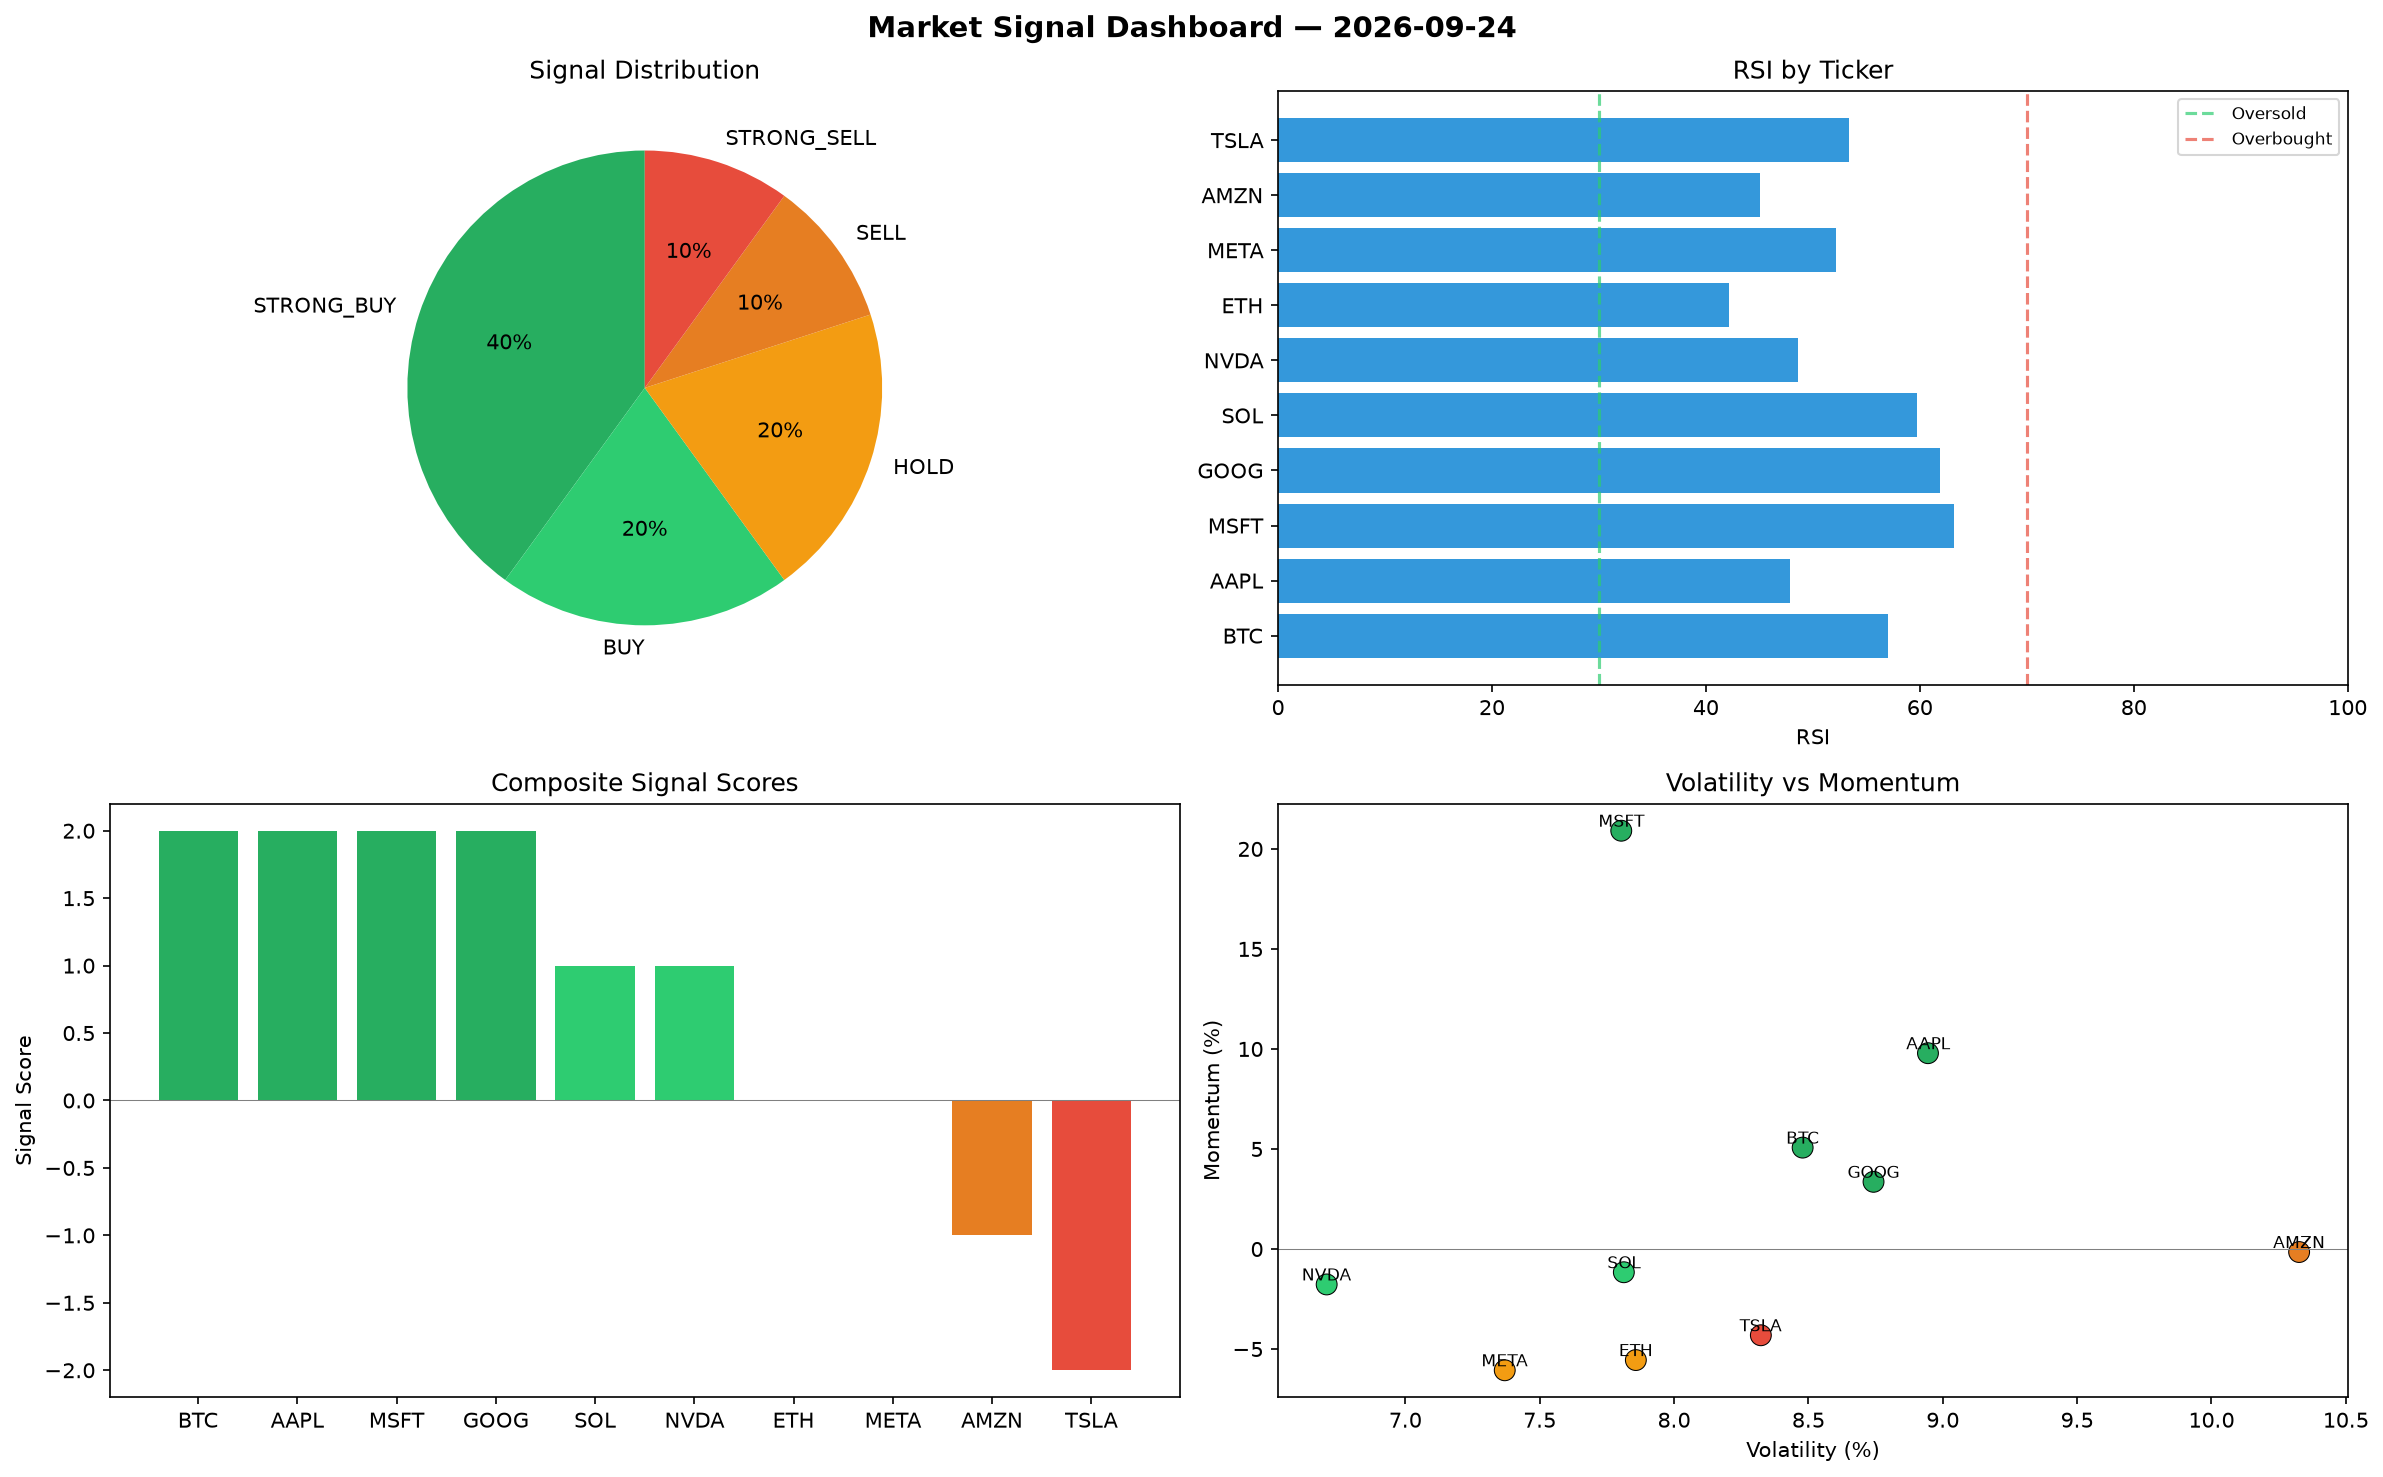
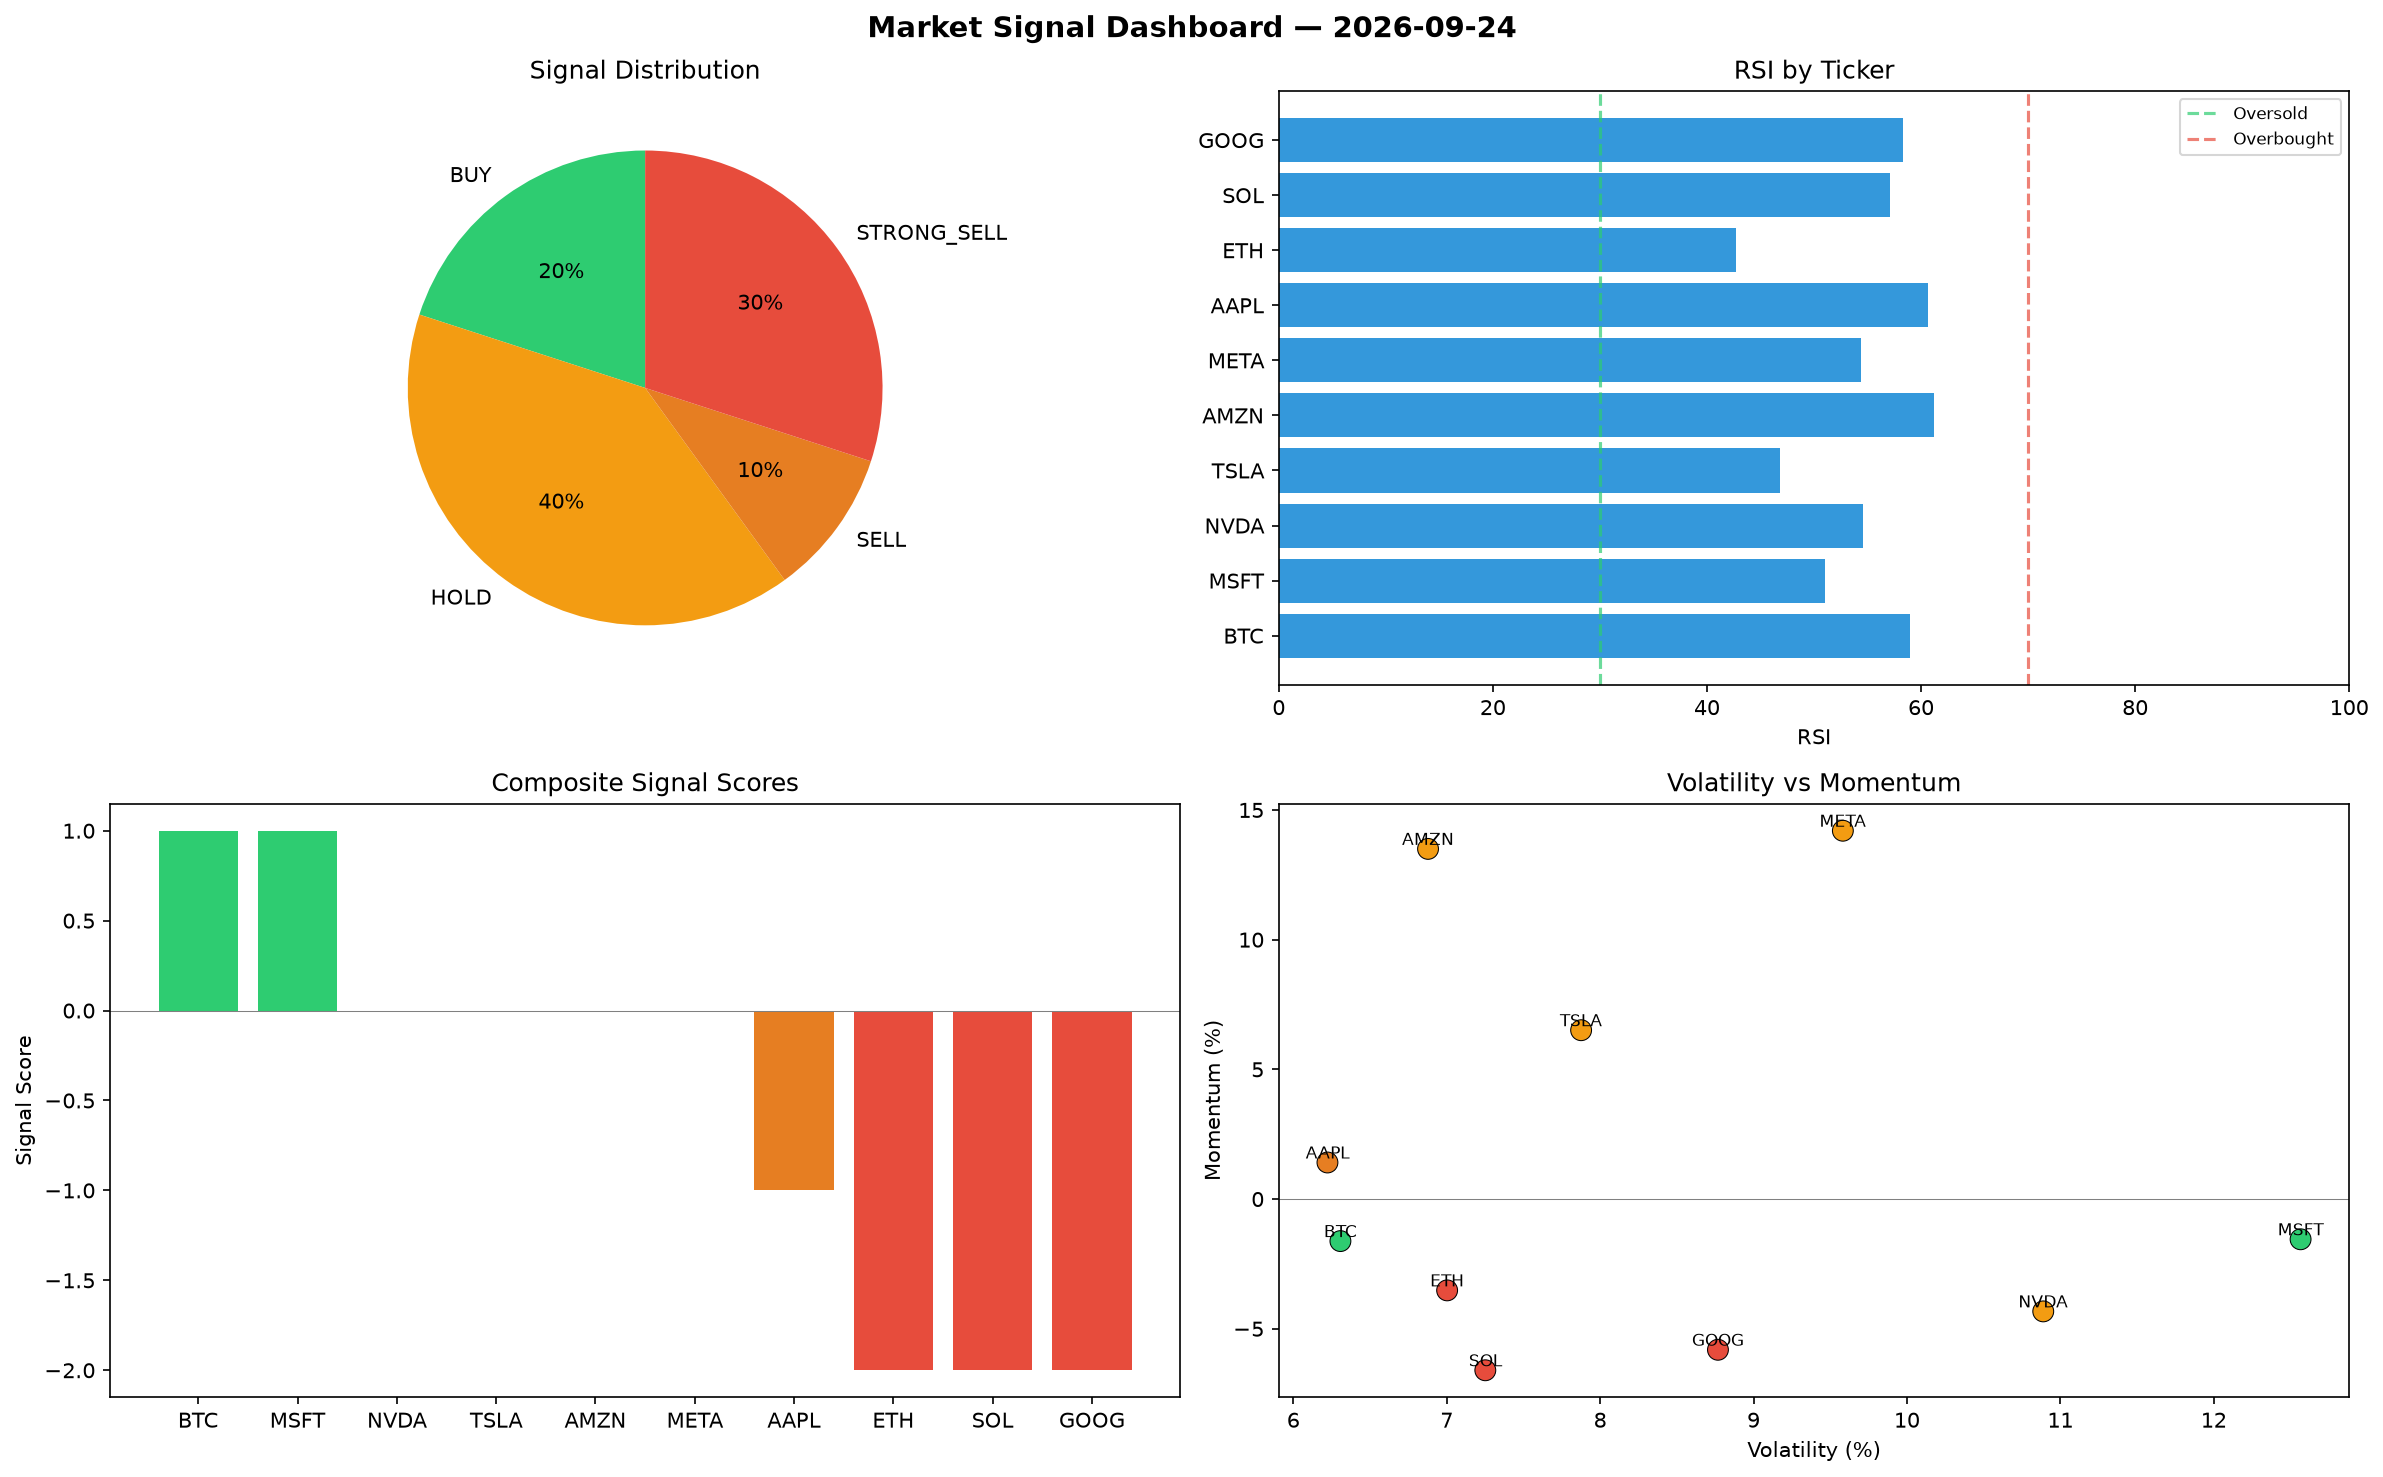
automated-bots: market signals 2026-09-24T13:39

diff --git a/logs/2026-09-24.md b/logs/2026-09-24.md
@@ -1,6 +1,6 @@
 # Market Signal Report — 2026-09-24
 
-**Run ID:** `a1687caf40` | **Buy:** 6 | **Sell:** 2 | **Hold:** 2
+**Run ID:** `8200d5f71e` | **Buy:** 2 | **Sell:** 4 | **Hold:** 4
 
 ![Dashboard](2026-09-24_dashboard.png)
 
@@ -8,28 +8,28 @@
 
 | Ticker | Price | Signal | Score | RSI | Momentum | Confidence |
 |--------|-------|--------|-------|-----|----------|------------|
-| BTC | $2200.23 | **STRONG_BUY** | 2 | 57.05 | 0.0507 | 0.5 |
-| AAPL | $1069.13 | **STRONG_BUY** | 2 | 47.82 | 0.0979 | 0.5 |
-| MSFT | $4707.7 | **STRONG_BUY** | 2 | 63.23 | 0.2091 | 0.5 |
-| GOOG | $4978.2 | **STRONG_BUY** | 2 | 61.92 | 0.0336 | 0.5 |
-| SOL | $1319.09 | **BUY** | 1 | 59.72 | -0.0116 | 0.25 |
-| NVDA | $1654.6 | **BUY** | 1 | 48.57 | -0.0177 | 0.25 |
-| ETH | $3346.81 | **HOLD** | 0 | 42.19 | -0.0555 | 0.0 |
-| META | $4140.8 | **HOLD** | 0 | 52.17 | -0.0606 | 0.0 |
-| AMZN | $3583.54 | **SELL** | -1 | 45.07 | -0.0015 | 0.25 |
-| TSLA | $3185.84 | **STRONG_SELL** | -2 | 53.34 | -0.0431 | 0.5 |
+| BTC | $886.23 | **BUY** | 1 | 58.92 | -0.0162 | 0.25 |
+| MSFT | $961.85 | **BUY** | 1 | 51.03 | -0.0155 | 0.25 |
+| NVDA | $3952.1 | **HOLD** | 0 | 54.59 | -0.0433 | 0.0 |
+| TSLA | $2274.08 | **HOLD** | 0 | 46.84 | 0.0651 | 0.0 |
+| AMZN | $3955.92 | **HOLD** | 0 | 61.19 | 0.135 | 0.0 |
+| META | $4702.73 | **HOLD** | 0 | 54.35 | 0.142 | 0.0 |
+| AAPL | $1170.08 | **SELL** | -1 | 60.67 | 0.0141 | 0.25 |
+| ETH | $1292.84 | **STRONG_SELL** | -2 | 42.68 | -0.0352 | 0.5 |
+| SOL | $3442.08 | **STRONG_SELL** | -2 | 57.09 | -0.066 | 0.5 |
+| GOOG | $2936.42 | **STRONG_SELL** | -2 | 58.29 | -0.0581 | 0.5 |
 
 ## Delta vs Yesterday
 
 | Ticker | Today | Yesterday | Price Change | Signal Changed |
 |--------|-------|-----------|-------------|----------------|
-| BTC | STRONG_BUY | STRONG_SELL | 📉 -31.04% | ⚠ YES |
-| AAPL | STRONG_BUY | STRONG_BUY | 📉 -64.61% | — |
-| MSFT | STRONG_BUY | STRONG_SELL | 📈 112.79% | ⚠ YES |
-| GOOG | STRONG_BUY | STRONG_BUY | 📈 88.26% | — |
-| SOL | BUY | HOLD | 📉 -65.02% | ⚠ YES |
-| NVDA | BUY | STRONG_BUY | 📉 -63.7% | ⚠ YES |
-| ETH | HOLD | HOLD | 📈 2.69% | — |
-| META | HOLD | STRONG_SELL | 📈 430.04% | ⚠ YES |
-| AMZN | SELL | STRONG_BUY | 📈 33.72% | ⚠ YES |
-| TSLA | STRONG_SELL | STRONG_BUY | 📈 54.52% | ⚠ YES |
+| BTC | BUY | STRONG_SELL | 📉 -72.22% | ⚠ YES |
+| MSFT | BUY | STRONG_SELL | 📉 -56.52% | ⚠ YES |
+| NVDA | HOLD | STRONG_BUY | 📉 -13.3% | ⚠ YES |
+| TSLA | HOLD | STRONG_BUY | 📈 10.3% | ⚠ YES |
+| AMZN | HOLD | STRONG_BUY | 📈 47.61% | ⚠ YES |
+| META | HOLD | STRONG_SELL | 📈 501.97% | ⚠ YES |
+| AAPL | SELL | STRONG_BUY | 📉 -61.27% | ⚠ YES |
+| ETH | STRONG_SELL | HOLD | 📉 -60.33% | ⚠ YES |
+| SOL | STRONG_SELL | HOLD | 📉 -8.73% | ⚠ YES |
+| GOOG | STRONG_SELL | STRONG_BUY | 📈 11.05% | ⚠ YES |
